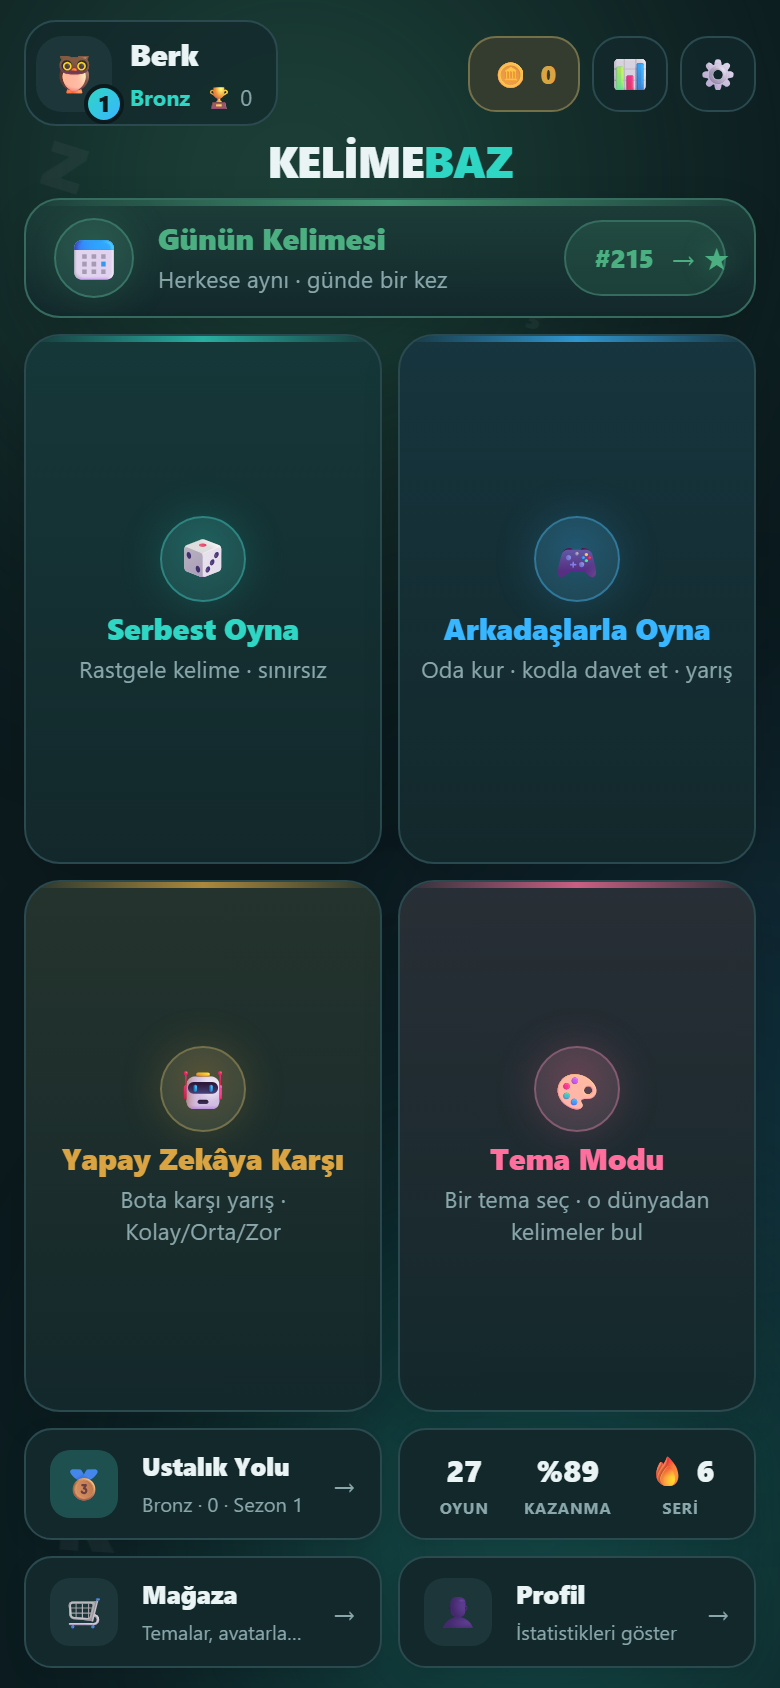
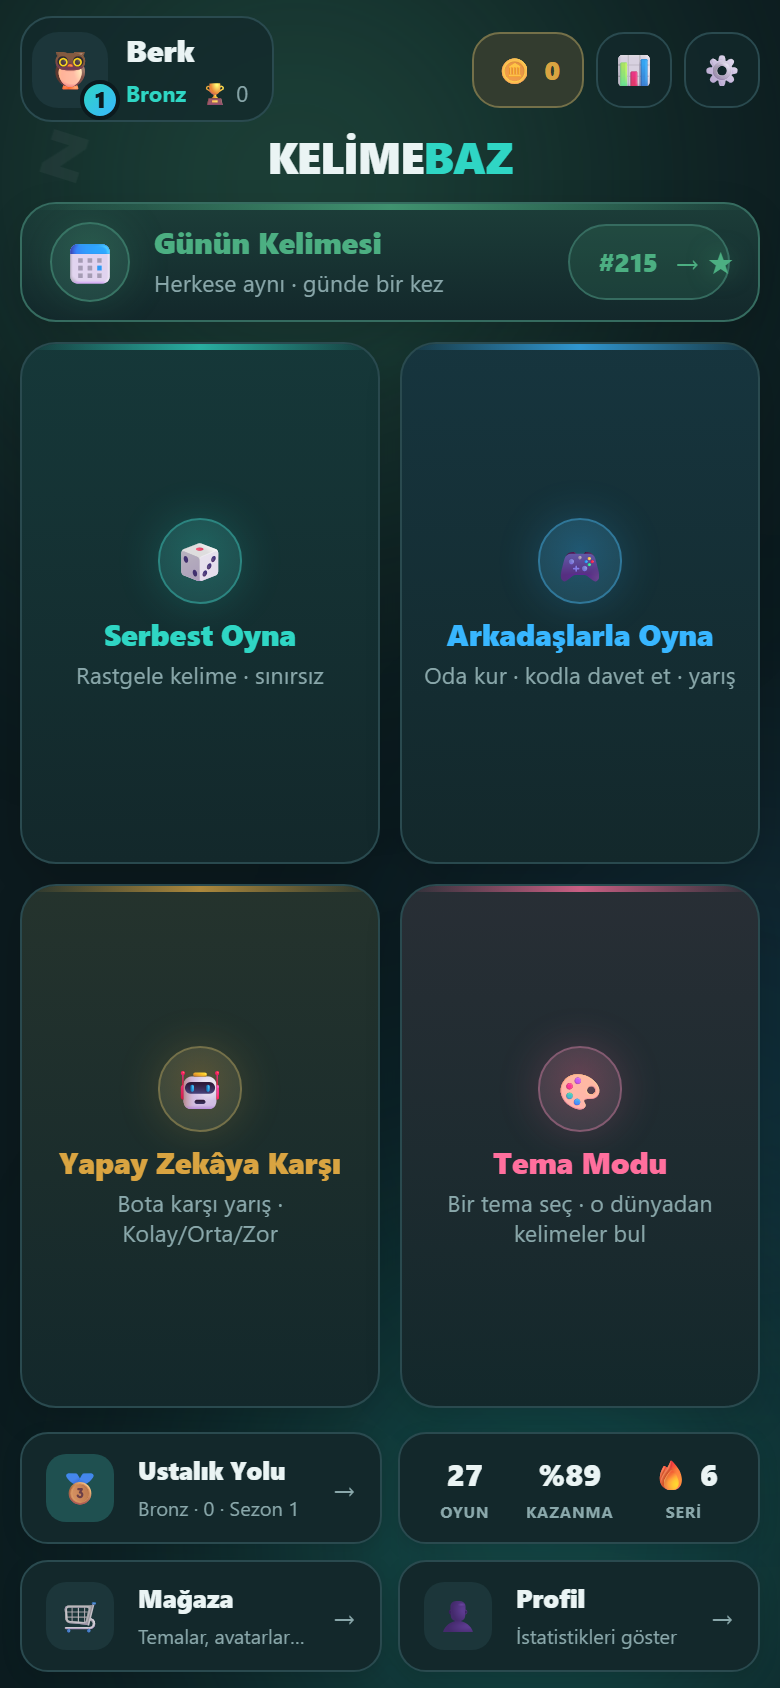
Mobil menu: her cihazda tek ekran (olculen yukseklik + dinamik olcek)
Bazi Android marka/tarayicilarinda dvh/svh desteklenmedigi icin yukseklik kurali
dusup scroll olusuyordu. Sabit birim yerine GERCEK gorunur yukseklik olculuyor:
- title-screen.ts: window.innerHeight / visualViewport ile --app-height yazilir
  (resize/orientation/visualViewport dinlenir, destroy'da temizlenir). dvh/svh
  desteklemeyen WebView'larda bile calisir; adres cubugu/klavye + safe-area yansir.
- title-screen.scss (yalniz mobil ≤620): .screen height = var(--app-height, 100svh)
  (yedek: 100vh → svh → JS olcumu); safe-area padding (max(base, env(inset)));
  bosluk/ikon/kart-dolgu vh'e duyarli clamp → ekrana gore otomatik olcek; ikon
  min(vw,vh) ile kisa/yatay ekranda da kuculur. min-height:0 + overflow gizli →
  grid daima sigar, tasma/kesilme yok.
- Masaustu ve tablet AYNEN korundu.

Dogrulama: 10 cihaz boyutu (320x568 legacy → 430x932, 412x732 genis-kisa dahil)
hepsinde scroll YOK + alt serit kesilmeden gorunur. Web + APK yayinlandi.

diff --git a/src/app/components/title-screen/title-screen.scss b/src/app/components/title-screen/title-screen.scss
@@ -740,9 +740,17 @@
    alt yazı ve footer gizli; marka küçük. Kompakt kartlarda buton yok. */
 @media (max-width: 620px) {
   .screen {
-    height: 100dvh;
-    gap: 8px;
-    padding: 10px 12px calc(10px + env(safe-area-inset-bottom, 0px));
+    // Gerçek görünür yükseklik (JS ölçer → --app-height). dvh/svh yoksa da çalışır.
+    // Yedek zinciri: eski tarayıcı 100vh, sonra svh, en son JS ölçümü.
+    height: 100vh;
+    height: 100svh;
+    height: var(--app-height, 100svh);
+    min-height: 0;
+    // Boşluklar ekran yüksekliğine göre otomatik (dar/kısa telefonda kısılır).
+    gap: clamp(6px, 1.5vh, 12px);
+    // Güvenli alan (çentik/çubuk): viewport-fit cover değilse env=0 → taban değer geçerli.
+    padding: max(8px, env(safe-area-inset-top)) max(10px, env(safe-area-inset-right))
+      max(8px, env(safe-area-inset-bottom)) max(10px, env(safe-area-inset-left));
   }
 
   /* Üst çubuk: profil + araçlar bir satır, marka altında küçük */
@@ -808,13 +816,13 @@
     grid-template-rows: auto 1fr 1fr; // Günün Kelimesi + iki kart satırı
     grid-auto-columns: auto;
     align-items: stretch;
-    gap: 8px;
+    gap: clamp(6px, 1.4vh, 10px);
   }
   .mode {
     height: auto;
     min-height: 0;
-    padding: 8px 10px;
-    gap: 5px;
+    padding: clamp(6px, 1.4vh, 12px) 10px;
+    gap: clamp(3px, 0.9vh, 7px);
     justify-content: center;
     border-radius: 18px;
   }
@@ -823,12 +831,13 @@
   }
   .m-desc {
     font-size: clamp(10.5px, 3vw, 12px);
-    line-height: 1.3;
+    line-height: 1.25;
   }
+  // İkon hem genişliğe hem YÜKSEKLİĞE duyarlı → kısa/yatay ekranda da küçülür.
   .m-ico {
-    width: clamp(40px, 11vw, 52px);
-    height: clamp(40px, 11vw, 52px);
-    font-size: clamp(19px, 5vw, 25px);
+    width: clamp(34px, min(11vw, 8vh), 52px);
+    height: clamp(34px, min(11vw, 8vh), 52px);
+    font-size: clamp(17px, min(5vw, 3.6vh), 25px);
   }
   .m-cta {
     display: none; // kompakt kart tümüyle tıklanır → ayrı buton gereksiz

diff --git a/src/app/components/title-screen/title-screen.ts b/src/app/components/title-screen/title-screen.ts
@@ -2,6 +2,8 @@ import {
   ChangeDetectionStrategy,
   Component,
   computed,
+  DestroyRef,
+  ElementRef,
   inject,
   output,
   signal,
@@ -64,6 +66,8 @@ export class TitleScreen {
   protected readonly league = inject(LeagueService);
   protected readonly i18n = inject(LanguageService);
   protected readonly pwa = inject(PwaService); // çevrimdışıyken oda modunu kapatmak için
+  private readonly host = inject<ElementRef<HTMLElement>>(ElementRef);
+  private readonly destroyRef = inject(DestroyRef);
 
   readonly play = output<GameMode>();
 
@@ -99,6 +103,30 @@ export class TitleScreen {
   });
 
   protected readonly settingsOpen = signal(false);
+
+  constructor() {
+    // TÜM CİHAZLARDA TEK EKRAN: gerçek görünür yüksekliği ölç → --app-height.
+    // dvh/svh desteklemeyen Android tarayıcılarında/WebView'larında bile çalışır;
+    // visualViewport adres çubuğu/klavye açılışını ve güvenli alanı doğru yansıtır.
+    // CSS: mobilde .screen { height: var(--app-height, 100svh) } → asla taşma/scroll.
+    if (typeof window !== 'undefined') {
+      const vv = window.visualViewport;
+      const setH = () => {
+        const h = Math.round(vv?.height ?? window.innerHeight);
+        if (h > 0) this.host.nativeElement.style.setProperty('--app-height', `${h}px`);
+      };
+      setH();
+      const opts: AddEventListenerOptions = { passive: true };
+      window.addEventListener('resize', setH, opts);
+      window.addEventListener('orientationchange', setH, opts);
+      vv?.addEventListener('resize', setH, opts);
+      this.destroyRef.onDestroy(() => {
+        window.removeEventListener('resize', setH);
+        window.removeEventListener('orientationchange', setH);
+        vv?.removeEventListener('resize', setH);
+      });
+    }
+  }
 
   protected get stats() {
     return this.statsService.stats();
